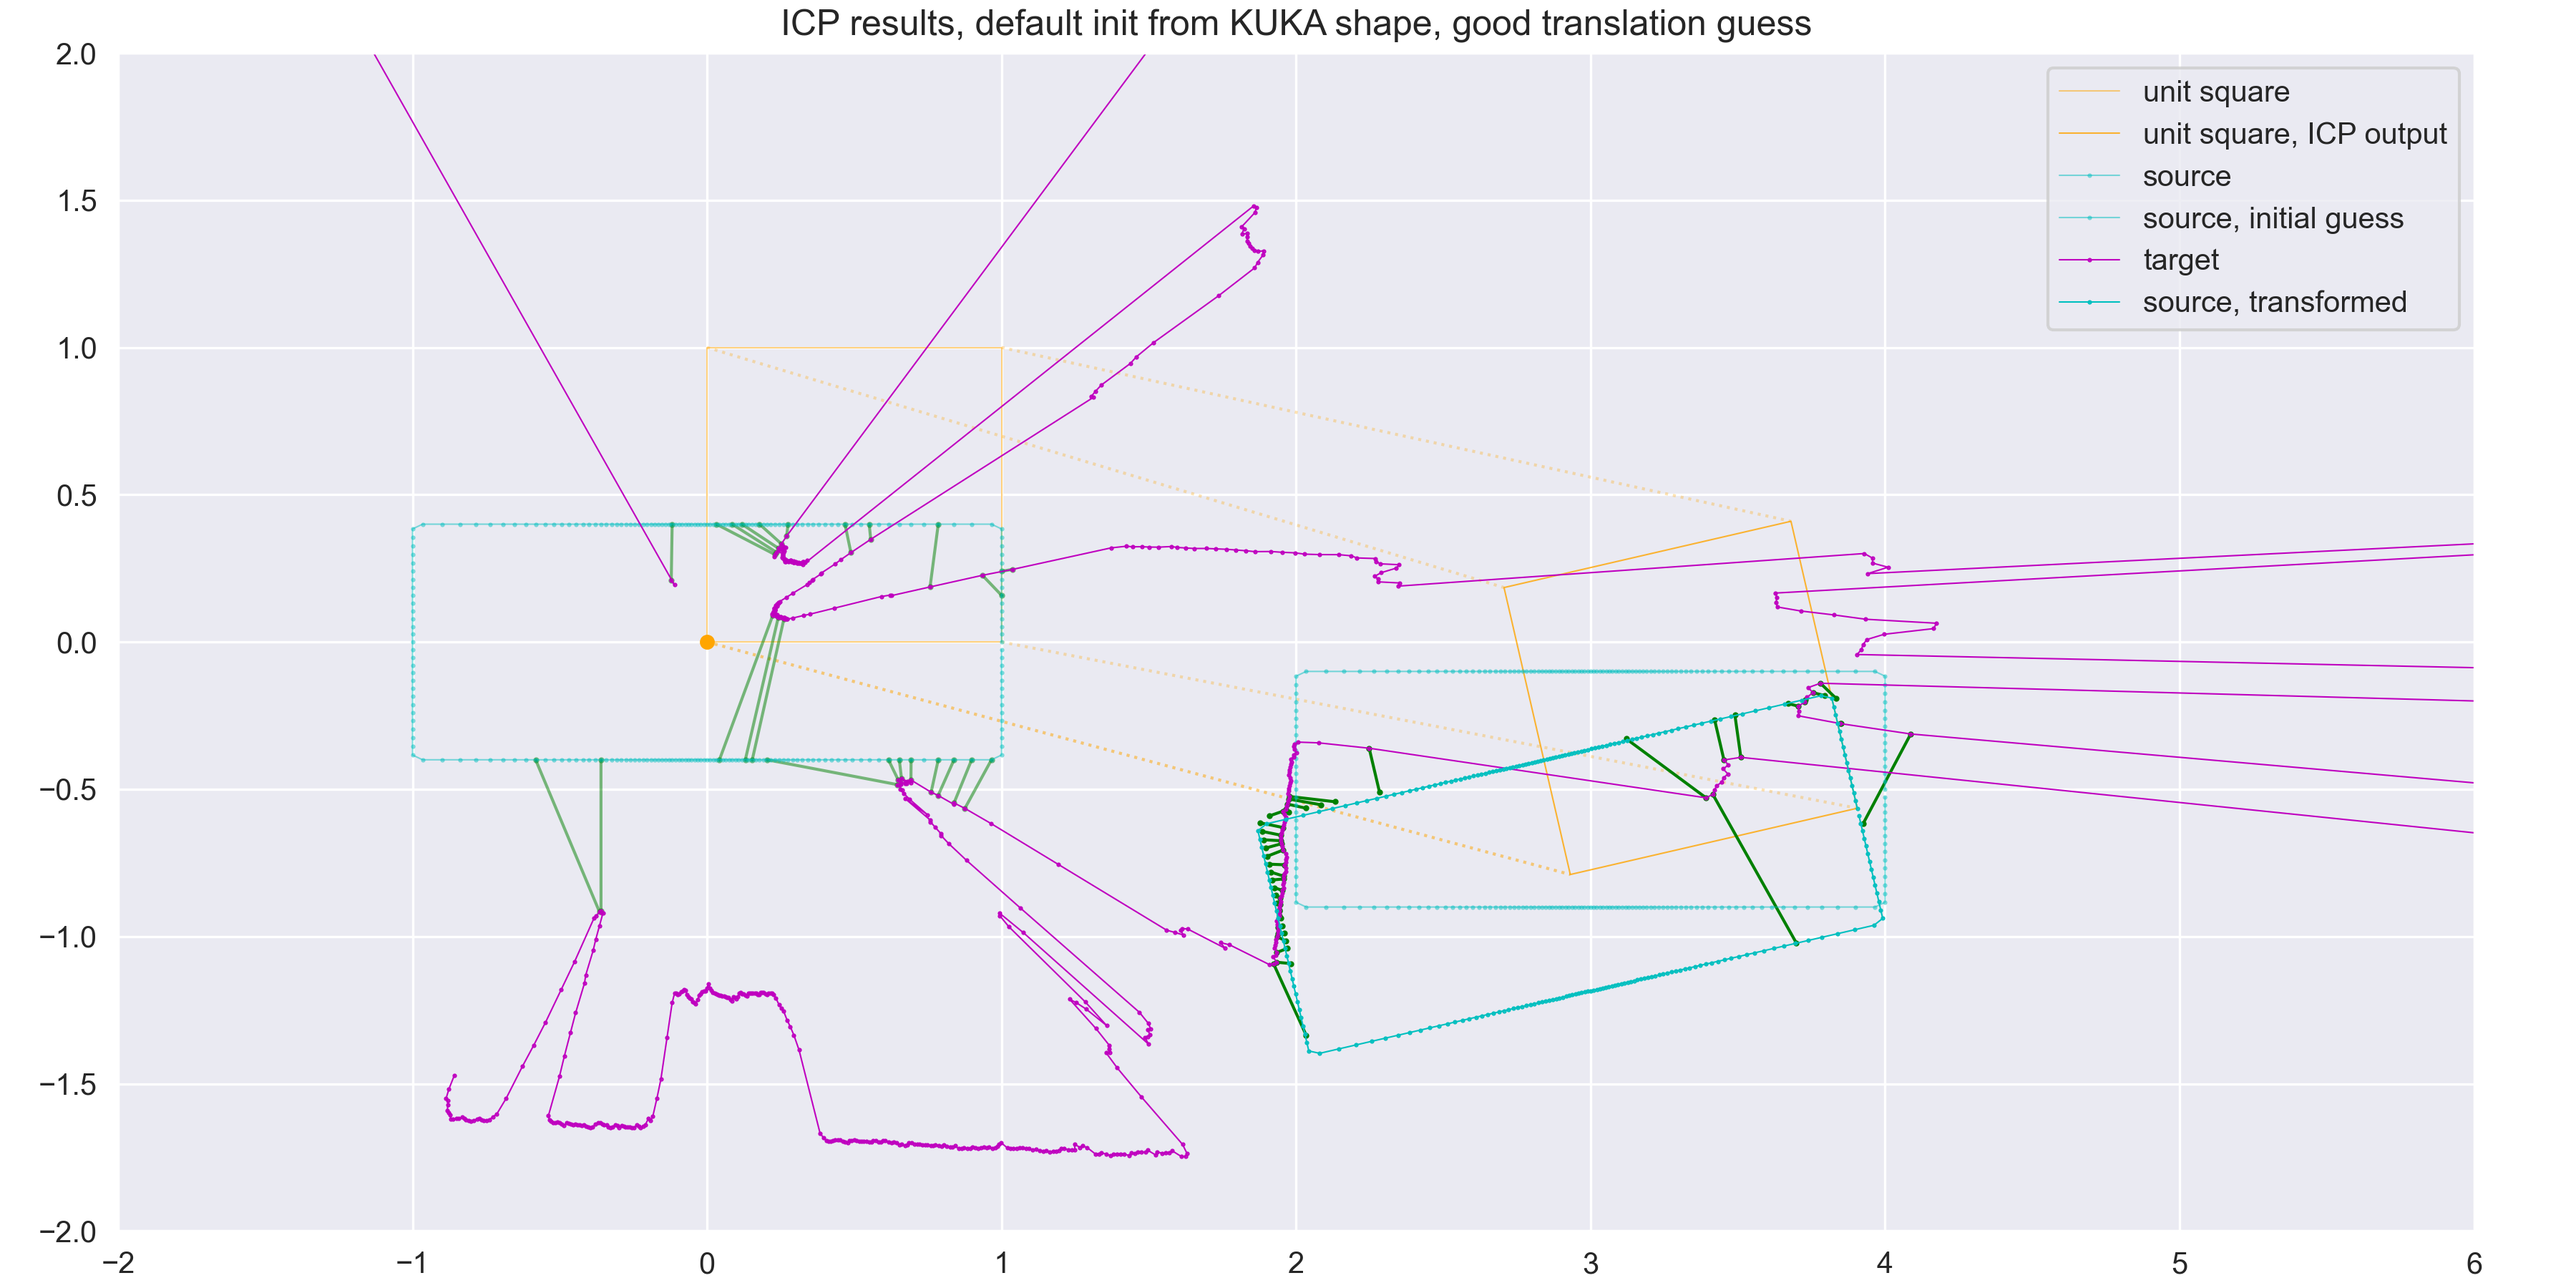
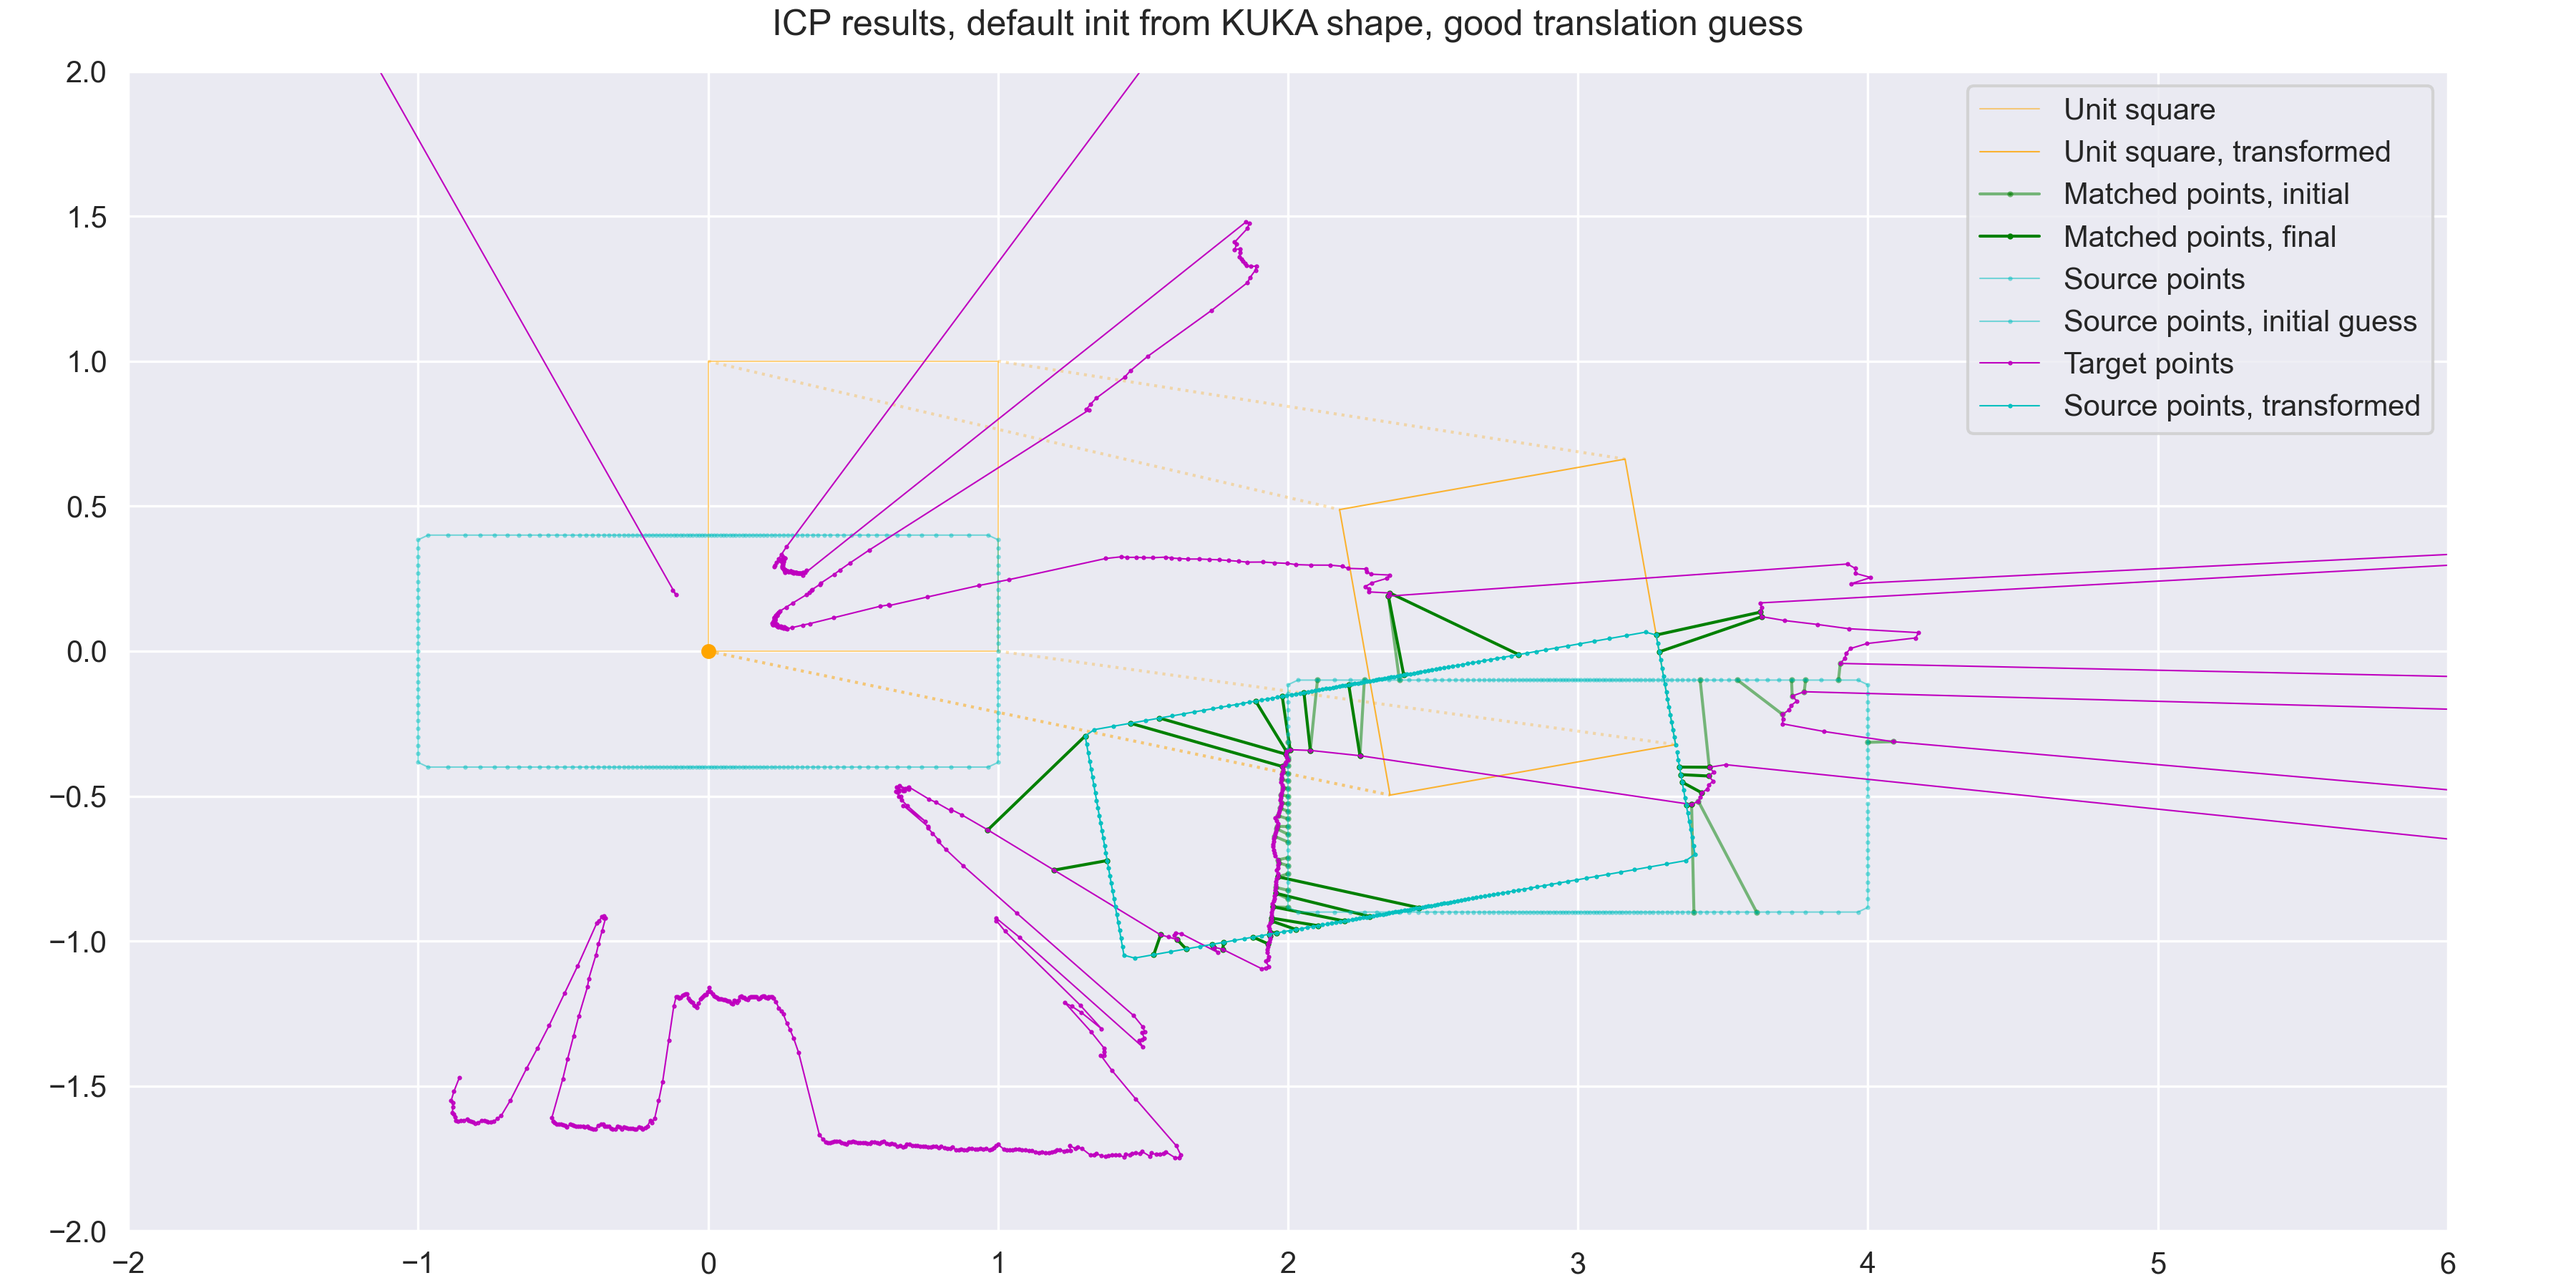
Fix: ICP algorithm initial tsf apply; Update: optimize control ICP frame plot

diff --git a/scripts/util.py b/scripts/util.py
@@ -1,6 +1,6 @@
 import numpy as np
 import json
-from math import pi, acos
+from math import pi, acos, degrees
 from functools import reduce
 
 import matplotlib.pyplot as plt
@@ -185,14 +185,14 @@ def plot_icp_result(src, tgt, tsf, title=None, save=False, states=None, xlim=Non
 
     .. note:: Assumes 2d data
     """
-    def _plot_point_cloud(arr, label, **kwargs):
+    def _plot_point_cloud(arr, **kwargs):
         kwargs_ = dict(
             c='orange',
             marker='.',
             ms=1,
             lw=0.5,
         )
-        plt.plot(arr[:, 0], arr[:, 1], label=label, **(kwargs_ | kwargs))
+        plt.plot(arr[:, 0], arr[:, 1], **(kwargs_ | kwargs))
 
     def _plot_line_seg(c1, c2, **kwargs):
         kwargs_ = dict(
@@ -209,64 +209,7 @@ def plot_icp_result(src, tgt, tsf, title=None, save=False, states=None, xlim=Non
         for s_, t_ in zip(src__, tgt__):
             _plot_line_seg(s_, t_, **kwargs)
 
-    def _step(idx_):
-        tsf_ = states[idx_][-1]
-        plt.cla()
-        if xlim:
-            plt.xlim(xlim)
-        if ylim:
-            plt.ylim(ylim)
-        if mode == 'control':
-            plt.suptitle(f'{t}, iteration {idx_}')
-
-        ori_tsl = tsf_[:2, 2]
-        angle = acos(tsf_[0][0])
-        ic(tsf_, ori_tsl, angle)
-        unit_sqr = np.array([
-            [0, 0],
-            [0, 1],
-            [1, 1],
-            [1, 0],
-            [0, 0]
-        ])
-        unit_sqr_tsf = (extend_1s(unit_sqr) @ tsf_.T)[:, :2]
-        plt.plot(0, 0, marker='o', c='orange', ms=4)
-        _plot_point_cloud(unit_sqr, 'unit square', alpha=0.5, ms=0, marker=None)
-        _plot_point_cloud(unit_sqr_tsf, 'unit square, ICP output', alpha=0.8, ms=0.5, marker=None)
-        for i in zip(unit_sqr, unit_sqr_tsf):
-            _plot_line_seg(*i, alpha=0.3, marker=None)
-        if states and idx_ != 0:
-            _plot_matched_points(states[0], c='g', ms=1, ls='solid', alpha=0.5)
-            _plot_matched_points(states[idx_], c='g', ms=1, ls='solid')
-
-        _plot_point_cloud(src, 'source', c='c', alpha=0.5)
-        if not np.array_equal(init_tsf, np.identity(3)):
-            _plot_point_cloud(src @ init_tsf.T, 'source, initial guess', c='c', alpha=0.5)
-        _plot_point_cloud(tgt, 'target', c='m')
-        _plot_point_cloud(src @ tsf_.T, 'source, transformed', c='c')
-
-        handles, labels = plt.gca().get_legend_handles_labels()  # Distinct labels
-        by_label = dict(zip(labels, handles))
-        plt.legend(by_label.values(), by_label.keys())
-        plt.pause(1)
-
     N_STT = len(states)
-
-    class PlotFrame:
-        def __init__(self):
-            self.idx = 0
-            self.clp = clipper(0, N_STT-1)
-            ic(self.clp)
-
-        def next(self, event):
-            ic(self.idx+1)
-            ic(self.idx, self.clp)
-            self.idx = self.clp(self.idx+1)
-            _step(self.idx)
-
-        def prev(self, event):
-            self.idx = self.clp(self.idx-1)
-            _step(self.idx)
 
     x_rang, y_rang = (
         abs(xlim[0] - xlim[1]), abs(ylim[0] - ylim[1])
@@ -281,25 +224,87 @@ def plot_icp_result(src, tgt, tsf, title=None, save=False, states=None, xlim=Non
         t = f'{t}, {title}'
     plt.suptitle(t)
     plt.gca().set_aspect('equal')
+
+    def _step(idx_, t_):
+        tsf_ = states[idx_][-1] if states else tsf
+        plt.cla()
+        if xlim:
+            plt.xlim(xlim)
+        if ylim:
+            plt.ylim(ylim)
+        if mode == 'control':
+            t_ = f'{t_}, iteration {idx_}'
+            plt.suptitle(t_)
+
+        ori_tsl = tsf_[:2, 2]
+        angle = degrees(acos(tsf_[0][0]))
+        ic(tsf_, ori_tsl, angle)
+        unit_sqr = np.array([
+            [0, 0],
+            [0, 1],
+            [1, 1],
+            [1, 0],
+            [0, 0]
+        ])
+        unit_sqr_tsf = (extend_1s(unit_sqr) @ tsf_.T)[:, :2]
+        plt.plot(0, 0, marker='o', c='orange', ms=4)
+        _plot_point_cloud(unit_sqr, label='Unit square', alpha=0.5, ms=0, marker=None)
+        _plot_point_cloud(unit_sqr_tsf, label='Unit square, transformed', alpha=0.8, ms=0.5, marker=None)
+        for i in zip(unit_sqr, unit_sqr_tsf):
+            _plot_line_seg(*i, alpha=0.3, marker=None)
+        if states:
+            _plot_matched_points(states[0], c='g', ms=1, ls='solid', alpha=0.5, label='Matched points, initial')
+            _plot_matched_points(states[idx_], c='g', ms=1, ls='solid', label='Matched points, final ')
+
+        _plot_point_cloud(src, label='Source points', c='c', alpha=0.5)
+        if not np.array_equal(init_tsf, np.identity(3)):
+            _plot_point_cloud(src @ init_tsf.T, label='Source points, initial guess', c='c', alpha=0.5)
+        _plot_point_cloud(tgt, label='Target points', c='m')
+        _plot_point_cloud(src @ tsf_.T, label='Source points, transformed', c='c')
+
+        handles, labels = plt.gca().get_legend_handles_labels()  # Distinct labels
+        by_label = dict(zip(labels, handles))
+        plt.legend(by_label.values(), by_label.keys())
+
+        if save:
+            plt.savefig(f'plot/{t_}.png', dpi=300)
+
+        if mode != 'static':
+            plt.pause(1 if mode == 'animate' else 0.1)  # 'control'
+
     if mode == 'animate':
         plt.ion()
         for idx in range(N_STT):
-            _step(idx)
-    elif mode =='control':
-        pf = PlotFrame()
-        ax = plt.gca()
-        axprev = plt.axes([0.7, 0.05, 0.1, 0.075])
-        axnext = plt.axes([0.81, 0.05, 0.1, 0.075])
-        bnext = Button(axnext, 'Next')
-        bnext.on_clicked(pf.next)
-        bprev = Button(axprev, 'Previous')
-        bprev.on_clicked(pf.prev)
-        plt.sca(ax)
-    else:
-        _step(N_STT-1)
+            _step(idx, t)
+    elif mode == 'control':
+        class PlotFrame:
+            def __init__(self, i=0):
+                self.idx = i
+                self.clp = clipper(0, N_STT-1)
 
-    if save:
-        plt.savefig(f'plot/{t}.png', dpi=300)
+            def next(self, event):
+                prev_idx = self.idx
+                self.idx = self.clp(self.idx+1)
+                if prev_idx != self.idx:
+                    _step(self.idx, t)
+
+            def prev(self, event):
+                prev_idx = self.idx
+                self.idx = self.clp(self.idx-1)
+                if prev_idx != self.idx:
+                    _step(self.idx, t)
+        init = 0
+        pf = PlotFrame(i=init)
+        ax = plt.gca()
+        btn_next = Button(plt.axes([0.81, 0.05, 0.1, 0.075]), 'Next')
+        btn_next.on_clicked(pf.next)
+        btn_prev = Button(plt.axes([0.7, 0.05, 0.1, 0.075]), 'Previous')
+        btn_prev.on_clicked(pf.prev)
+        plt.sca(ax)
+
+        _step(init, t)
+    else:
+        _step(N_STT-1, t)
 
     plt.ioff()  # So that window doesn't close
     plt.show()

diff --git a/scripts/robo_pose_estimator.py b/scripts/robo_pose_estimator.py
@@ -123,16 +123,17 @@ class Icp:
         err = float('inf')
         d_err = float('inf')
         n = 0
-        src = self.src  # TODO: implementation wrong with a different initial guess?
+        # src = self.src  # TODO: implementation wrong with a non-identity initial guess?
+        src = self.src @ tsf.T
         states = []
 
         while d_err > min_d_err and n < max_iter:
             src_match, tgt_match, idxs = self.nn_tgt(src)
-            tsf = tsf @ self.svd(src_match, tgt_match)
-            src = self.src @ tsf.T
-
             if verbose:
                 states.append((src_match, tgt_match, tsf))
+
+            tsf = tsf @ self.svd(src_match, tgt_match)
+            src = self.src @ tsf.T
 
             def _err():
                 src_ = src[idxs[:, 0]]
@@ -207,6 +208,7 @@ class Icp:
 def visualize(a, b, tsf=np.identity(3), mode='static', **kwargs):
     init_tsf = tsf
     tsf, states = Icp(a, b)(tsf=tsf, max_iter=100, min_d_err=1e-6, verbose=True)
+    ic(states[:2])
     # states = states[:3]
     plot_icp_result(extend_1s(a), b, tsf, states=states, init_tsf=init_tsf, mode=mode, **kwargs)
 
@@ -296,9 +298,9 @@ if __name__ == '__main__':
             [0, 1, -0.5],
             [0, 0, 1]
         ])
-        visualize(pc_kuka, pts, tsf=init_tsf, title=title, xlim=[-2, 6], ylim=[-2, 2], mode='control', scale=1.5)
+        visualize(pc_kuka, pts, tsf=init_tsf, title=title, xlim=[-2, 6], ylim=[-2, 2], mode='static', save=True)
 
-    check_icp_hsr()
+    # check_icp_hsr()
 
     c = Cluster.cluster
 
@@ -337,9 +339,9 @@ if __name__ == '__main__':
         tsf = np.identity(3)
         tsf[:2, -1] = cls.mean(axis=0)
         ic('init', tsf)
-        visualize(pc_kuka, cls, title=title, tsf=tsf, xlim=[-2, 12], ylim=[-2, 12], mode='control')
+        visualize(pc_kuka, cls, title=title, tsf=tsf, xlim=[-2, 6], ylim=[-2, 3], mode='static', save=True)
 
-    # icp_after_cluster()
+    icp_after_cluster()
 
 
 

diff --git a/scripts/test_lang.py b/scripts/test_lang.py
@@ -80,6 +80,7 @@ if __name__ == '__main__':
     # plt.plot([1, 2], [3, 4])
     # plt.show()
 
+    # Taken from https://matplotlib.org/stable/gallery/widgets/buttons.html
     import numpy as np
     import matplotlib.pyplot as plt
     from matplotlib.widgets import Button
